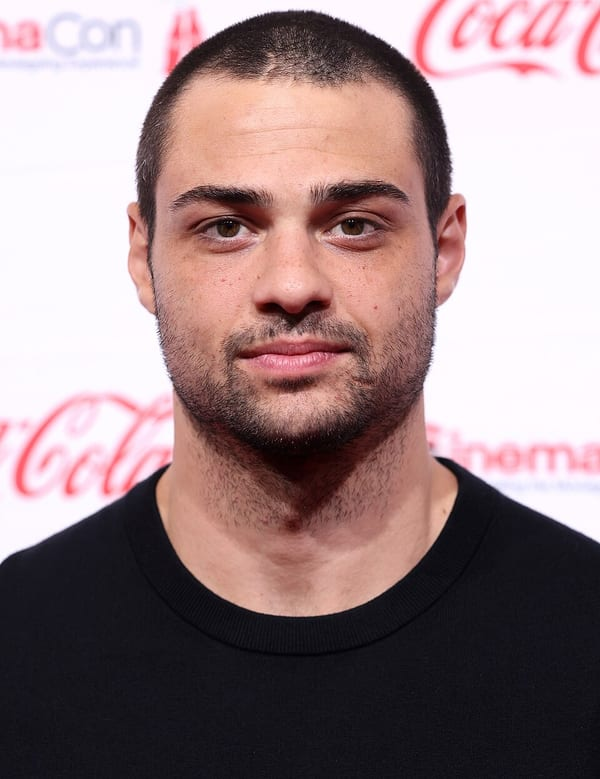
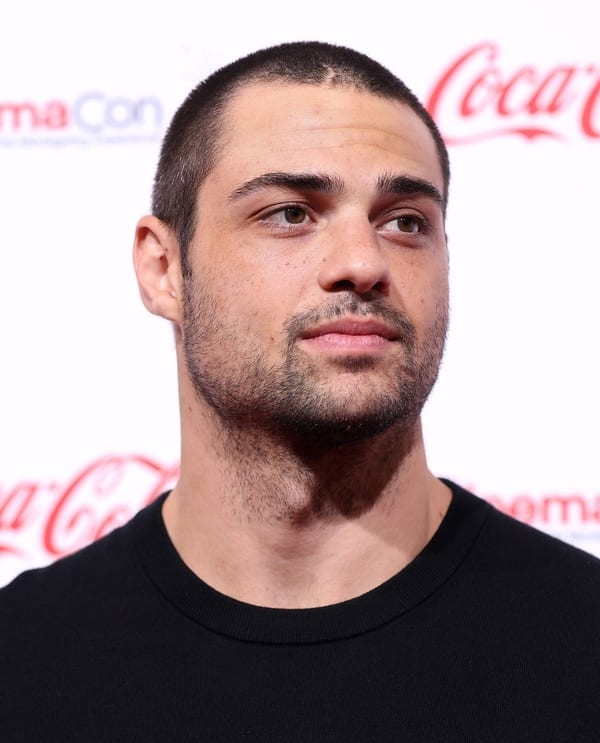
Add Chace Crawford (2012), new Noah Centineo photo, Foden above KSI and KSI below Speed
Claude-Session: https://claude.ai/code/session_015PiKjigLATJRMSLTpSs1fv

diff --git a/scripts/contact-sheet.html b/scripts/contact-sheet.html
@@ -23,7 +23,7 @@
   figcaption { font-size:11px; color:var(--muted); }
   #toast { position:fixed; bottom:16px; left:50%; transform:translateX(-50%); background:var(--fg); color:var(--bg); padding:8px 12px; border-radius:6px; opacity:0; transition:opacity .2s; }
 </style></head><body>
-<header><h1>Contact sheet</h1><span>271/276 with images</span>
+<header><h1>Contact sheet</h1><span>272/277 with images</span>
 <input id="q" placeholder="Filter by name"><label><input type="checkbox" id="bad"> Missing only</label></header>
 <p style="margin-bottom:8px">Check that each photo looks like its rating (the number next to the name). Set an era with <code>"Name": { "years": [2005, 2014] }</code> to steer the pick.</p>
 <p style="margin-bottom:16px">"Use this" / "Reject current" copies a line for <code>data/image-overrides.json</code>. Then run <code>npm run images -- --only "Name"</code>.</p>
@@ -352,6 +352,13 @@
   <figcaption>2025 · 12.9</figcaption>
   <button data-copy='&quot;Bradley Cooper&quot;:&quot;File:Bradley Cooper.jpg&quot;'>Use this</button>
 </figure></div>
+</section>
+<section class="card" data-name="chace crawford">
+  <a href="https://commons.wikimedia.org/wiki/File:Chace_Crawford_2012_Shankbone_4.JPG" target="_blank"><img class="main" src="../public/celebs/chace-crawford.jpg" loading="lazy"></a>
+  <h2>Chace Crawford <span>8.6 · actor</span></h2>
+  <p>2012 · CC BY 3.0 · David Shankbone</p><p class="t">File:Chace Crawford 2012 Shankbone 4.JPG</p>
+  <button data-copy='&quot;Chace Crawford&quot;:{&quot;reject&quot;:[&quot;File:Chace Crawford 2012 Shankbone 4.JPG&quot;]}'>Reject current</button>
+  
 </section>
 <section class="card" data-name="idris elba">
   <a href="https://commons.wikimedia.org/wiki/File:Idris_Elba-4580_(cropped).jpg" target="_blank"><img class="main" src="../public/celebs/idris-elba.jpg" loading="lazy"></a>
@@ -875,31 +882,11 @@
 </figure></div>
 </section>
 <section class="card" data-name="noah centineo">
-  <a href="https://commons.wikimedia.org/wiki/File:Noah_Centineo_by_Gage_Skidmore_(cropped).jpg" target="_blank"><img class="main" src="../public/celebs/noah-centineo.jpg" loading="lazy"></a>
+  <a href="https://commons.wikimedia.org/wiki/File:Noah_Centineo_(55230816636).jpg" target="_blank"><img class="main" src="../public/celebs/noah-centineo.jpg" loading="lazy"></a>
   <h2>Noah Centineo <span>7.8 · actor</span></h2>
-  <p>2026 · CC BY-SA 3.0 · Gage Skidmore</p><p class="t">File:Noah Centineo by Gage Skidmore (cropped).jpg</p>
-  <button data-copy='&quot;Noah Centineo&quot;:{&quot;reject&quot;:[&quot;File:Noah Centineo by Gage Skidmore (cropped).jpg&quot;]}'>Reject current</button>
-  <div class="alts"><figure>
-  <a href="https://commons.wikimedia.org/wiki/File%3AActor_Noah_Centineo_Visits_Naval_Station_Norfolk_(5)_(cropped).jpg" target="_blank"><img src="https://thumb.wikimedia.org/wikipedia/commons/thumb/7/77/Actor_Noah_Centineo_Visits_Naval_Station_Norfolk_%285%29_%28cropped%29.jpg/960px-Actor_Noah_Centineo_Visits_Naval_Station_Norfolk_%285%29_%28cropped%29.jpg?utm_source=commons.wikimedia.org&amp;utm_campaign=imageinfo&amp;utm_content=thumbnail" loading="lazy" title="File:Actor Noah Centineo Visits Naval Station Norfolk (5) (cropped).jpg"></a>
-  <figcaption>2025 · 13.5</figcaption>
-  <button data-copy='&quot;Noah Centineo&quot;:&quot;File:Actor Noah Centineo Visits Naval Station Norfolk (5) (cropped).jpg&quot;'>Use this</button>
-</figure><figure>
-  <a href="https://commons.wikimedia.org/wiki/File%3ANoah_Centineo_by_Gage_Skidmore.jpg" target="_blank"><img src="https://thumb.wikimedia.org/wikipedia/commons/thumb/6/61/Noah_Centineo_by_Gage_Skidmore.jpg/960px-Noah_Centineo_by_Gage_Skidmore.jpg?utm_source=commons.wikimedia.org&amp;utm_campaign=imageinfo&amp;utm_content=thumbnail" loading="lazy" title="File:Noah Centineo by Gage Skidmore.jpg"></a>
-  <figcaption>2026 · 9</figcaption>
-  <button data-copy='&quot;Noah Centineo&quot;:&quot;File:Noah Centineo by Gage Skidmore.jpg&quot;'>Use this</button>
-</figure><figure>
-  <a href="https://commons.wikimedia.org/wiki/File%3ANoah_Centineo_(55229906217).jpg" target="_blank"><img src="https://thumb.wikimedia.org/wikipedia/commons/thumb/4/43/Noah_Centineo_%2855229906217%29.jpg/960px-Noah_Centineo_%2855229906217%29.jpg?utm_source=commons.wikimedia.org&amp;utm_campaign=imageinfo&amp;utm_content=thumbnail" loading="lazy" title="File:Noah Centineo (55229906217).jpg"></a>
-  <figcaption>2026 · 9</figcaption>
-  <button data-copy='&quot;Noah Centineo&quot;:&quot;File:Noah Centineo (55229906217).jpg&quot;'>Use this</button>
-</figure><figure>
-  <a href="https://commons.wikimedia.org/wiki/File%3ANoah_Centineo_(55230970623).jpg" target="_blank"><img src="https://thumb.wikimedia.org/wikipedia/commons/thumb/c/c8/Noah_Centineo_%2855230970623%29.jpg/960px-Noah_Centineo_%2855230970623%29.jpg?utm_source=commons.wikimedia.org&amp;utm_campaign=imageinfo&amp;utm_content=thumbnail" loading="lazy" title="File:Noah Centineo (55230970623).jpg"></a>
-  <figcaption>2026 · 9</figcaption>
-  <button data-copy='&quot;Noah Centineo&quot;:&quot;File:Noah Centineo (55230970623).jpg&quot;'>Use this</button>
-</figure><figure>
-  <a href="https://commons.wikimedia.org/wiki/File%3ANoah_Centineo_(55229906192).jpg" target="_blank"><img src="https://thumb.wikimedia.org/wikipedia/commons/thumb/8/87/Noah_Centineo_%2855229906192%29.jpg/960px-Noah_Centineo_%2855229906192%29.jpg?utm_source=commons.wikimedia.org&amp;utm_campaign=imageinfo&amp;utm_content=thumbnail" loading="lazy" title="File:Noah Centineo (55229906192).jpg"></a>
-  <figcaption>2026 · 9</figcaption>
-  <button data-copy='&quot;Noah Centineo&quot;:&quot;File:Noah Centineo (55229906192).jpg&quot;'>Use this</button>
-</figure></div>
+  <p>2026 · CC BY-SA 4.0 · Gage Skidmore from Surprise, AZ, United States of America</p><p class="t">File:Noah Centineo (55230816636).jpg</p>
+  <button data-copy='&quot;Noah Centineo&quot;:{&quot;reject&quot;:[&quot;File:Noah Centineo (55230816636).jpg&quot;]}'>Reject current</button>
+  
 </section>
 <section class="card" data-name="paul mescal">
   <a href="https://commons.wikimedia.org/wiki/File:Paul_Mescal_at_the_Toronto_International_Film_Festival_in_2025_2_(cropped_2).jpg" target="_blank"><img class="main" src="../public/celebs/paul-mescal.jpg" loading="lazy"></a>
@@ -3791,6 +3778,33 @@
   <button data-copy='&quot;Pete Davidson&quot;:&quot;File:Joey Gay - Netflix.png&quot;'>Use this</button>
 </figure></div>
 </section>
+<section class="card" data-name="phil foden">
+  <a href="https://commons.wikimedia.org/wiki/File:2023-10-04_Fu%C3%9Fball,_M%C3%A4nner,_UEFA_Champions_League,_RB_Leipzig_-_Manchester_City_FC_1DX_2613,_Phil_Foden.jpg" target="_blank"><img class="main" src="../public/celebs/phil-foden.jpg" loading="lazy"></a>
+  <h2>Phil Foden <span>5.9 · athlete</span></h2>
+  <p>2023 · CC BY-SA 4.0 · Steffen Prößdorf</p><p class="t">File:2023-10-04 Fußball, Männer, UEFA Champions League, RB Leipzig - Manchester City FC 1DX 2613, Phil Foden.jpg</p>
+  <button data-copy='&quot;Phil Foden&quot;:{&quot;reject&quot;:[&quot;File:2023-10-04 Fußball, Männer, UEFA Champions League, RB Leipzig - Manchester City FC 1DX 2613, Phil Foden.jpg&quot;]}'>Reject current</button>
+  <div class="alts"><figure>
+  <a href="https://commons.wikimedia.org/wiki/File%3A2023-10-04_Fu%C3%9Fball%2C_M%C3%A4nner%2C_UEFA_Champions_League%2C_RB_Leipzig_-_Manchester_City_FC_1DX_2724_(cropped).jpg" target="_blank"><img src="https://thumb.wikimedia.org/wikipedia/commons/thumb/3/38/2023-10-04_Fu%C3%9Fball%2C_M%C3%A4nner%2C_UEFA_Champions_League%2C_RB_Leipzig_-_Manchester_City_FC_1DX_2724_%28cropped%29.jpg/960px-2023-10-04_Fu%C3%9Fball%2C_M%C3%A4nner%2C_UEFA_Champions_League%2C_RB_Leipzig_-_Manchester_City_FC_1DX_2724_%28cropped%29.jpg?utm_source=commons.wikimedia.org&amp;utm_campaign=imageinfo&amp;utm_content=thumbnail" loading="lazy" title="File:2023-10-04 Fußball, Männer, UEFA Champions League, RB Leipzig - Manchester City FC 1DX 2724 (cropped).jpg"></a>
+  <figcaption>2023 · 10.5</figcaption>
+  <button data-copy='&quot;Phil Foden&quot;:&quot;File:2023-10-04 Fußball, Männer, UEFA Champions League, RB Leipzig - Manchester City FC 1DX 2724 (cropped).jpg&quot;'>Use this</button>
+</figure><figure>
+  <a href="https://commons.wikimedia.org/wiki/File%3AFoden_tattoo.jpg" target="_blank"><img src="https://thumb.wikimedia.org/wikipedia/commons/thumb/4/42/Foden_tattoo.jpg/960px-Foden_tattoo.jpg?utm_source=commons.wikimedia.org&amp;utm_campaign=imageinfo&amp;utm_content=thumbnail" loading="lazy" title="File:Foden tattoo.jpg"></a>
+  <figcaption>2024 · 8</figcaption>
+  <button data-copy='&quot;Phil Foden&quot;:&quot;File:Foden tattoo.jpg&quot;'>Use this</button>
+</figure><figure>
+  <a href="https://commons.wikimedia.org/wiki/File%3APhil_Foden_(36502388741).jpg" target="_blank"><img src="https://thumb.wikimedia.org/wikipedia/commons/thumb/4/43/Phil_Foden_%2836502388741%29.jpg/960px-Phil_Foden_%2836502388741%29.jpg?utm_source=commons.wikimedia.org&amp;utm_campaign=imageinfo&amp;utm_content=thumbnail" loading="lazy" title="File:Phil Foden (36502388741).jpg"></a>
+  <figcaption>2017 · 7</figcaption>
+  <button data-copy='&quot;Phil Foden&quot;:&quot;File:Phil Foden (36502388741).jpg&quot;'>Use this</button>
+</figure><figure>
+  <a href="https://commons.wikimedia.org/wiki/File%3APhil_Foden_2022.jpeg" target="_blank"><img src="https://upload.wikimedia.org/wikipedia/commons/e/e7/Phil_Foden_2022.jpeg?utm_source=commons.wikimedia.org&amp;utm_campaign=imageinfo&amp;utm_content=original" loading="lazy" title="File:Phil Foden 2022.jpeg"></a>
+  <figcaption>2022 · 6.8</figcaption>
+  <button data-copy='&quot;Phil Foden&quot;:&quot;File:Phil Foden 2022.jpeg&quot;'>Use this</button>
+</figure><figure>
+  <a href="https://commons.wikimedia.org/wiki/File%3AParis_Saint-Germain_-_Manchester_City_FC%2C_22_January_2025_(201).jpg" target="_blank"><img src="https://thumb.wikimedia.org/wikipedia/commons/thumb/9/90/Paris_Saint-Germain_-_Manchester_City_FC%2C_22_January_2025_%28201%29.jpg/960px-Paris_Saint-Germain_-_Manchester_City_FC%2C_22_January_2025_%28201%29.jpg?utm_source=commons.wikimedia.org&amp;utm_campaign=imageinfo&amp;utm_content=thumbnail" loading="lazy" title="File:Paris Saint-Germain - Manchester City FC, 22 January 2025 (201).jpg"></a>
+  <figcaption>2025 · 6</figcaption>
+  <button data-copy='&quot;Phil Foden&quot;:&quot;File:Paris Saint-Germain - Manchester City FC, 22 January 2025 (201).jpg&quot;'>Use this</button>
+</figure></div>
+</section>
 <section class="card" data-name="tyler, the creator">
   <a href="https://commons.wikimedia.org/wiki/File:Tyler_the_Creator_2022_cropped_(cropped).png" target="_blank"><img class="main" src="../public/celebs/tyler-the-creator.jpg" loading="lazy"></a>
   <h2>Tyler, the Creator <span>5.9 · musician</span></h2>
@@ -4046,33 +4060,6 @@
   <a href="https://commons.wikimedia.org/wiki/File%3AHudson_Theatre_(52302264678).jpg" target="_blank"><img src="https://thumb.wikimedia.org/wikipedia/commons/thumb/5/5b/Hudson_Theatre_%2852302264678%29.jpg/960px-Hudson_Theatre_%2852302264678%29.jpg?utm_source=commons.wikimedia.org&amp;utm_campaign=imageinfo&amp;utm_content=thumbnail" loading="lazy" title="File:Hudson Theatre (52302264678).jpg"></a>
   <figcaption>2022 · 6</figcaption>
   <button data-copy='&quot;John Mulaney&quot;:&quot;File:Hudson Theatre (52302264678).jpg&quot;'>Use this</button>
-</figure></div>
-</section>
-<section class="card" data-name="ksi">
-  <a href="https://commons.wikimedia.org/wiki/File:KSI_in_2024_(2).png" target="_blank"><img class="main" src="../public/celebs/ksi.jpg" loading="lazy"></a>
-  <h2>KSI <span>5.6 · creator</span></h2>
-  <p>2024 · CC BY 3.0 · MILLION DOLLAZ WORTH OF GAME</p><p class="t">File:KSI in 2024 (2).png</p>
-  <button data-copy='&quot;KSI&quot;:{&quot;reject&quot;:[&quot;File:KSI in 2024 (2).png&quot;]}'>Reject current</button>
-  <div class="alts"><figure>
-  <a href="https://commons.wikimedia.org/wiki/File%3AKSI_in_2024_(cropped).jpg" target="_blank"><img src="https://upload.wikimedia.org/wikipedia/commons/6/68/KSI_in_2024_%28cropped%29.jpg?utm_source=commons.wikimedia.org&amp;utm_campaign=imageinfo&amp;utm_content=original" loading="lazy" title="File:KSI in 2024 (cropped).jpg"></a>
-  <figcaption>2024 · 13.2</figcaption>
-  <button data-copy='&quot;KSI&quot;:&quot;File:KSI in 2024 (cropped).jpg&quot;'>Use this</button>
-</figure><figure>
-  <a href="https://commons.wikimedia.org/wiki/File%3AKSI2019.jpg" target="_blank"><img src="https://upload.wikimedia.org/wikipedia/commons/6/67/KSI2019.jpg?utm_source=commons.wikimedia.org&amp;utm_campaign=imageinfo&amp;utm_content=original" loading="lazy" title="File:KSI2019.jpg"></a>
-  <figcaption>2019 · 8.6</figcaption>
-  <button data-copy='&quot;KSI&quot;:&quot;File:KSI2019.jpg&quot;'>Use this</button>
-</figure><figure>
-  <a href="https://commons.wikimedia.org/wiki/File%3AKSI_in_2024.png" target="_blank"><img src="https://upload.wikimedia.org/wikipedia/commons/8/8b/KSI_in_2024.png?utm_source=commons.wikimedia.org&amp;utm_campaign=imageinfo&amp;utm_content=original" loading="lazy" title="File:KSI in 2024.png"></a>
-  <figcaption>2024 · 8.4</figcaption>
-  <button data-copy='&quot;KSI&quot;:&quot;File:KSI in 2024.png&quot;'>Use this</button>
-</figure><figure>
-  <a href="https://commons.wikimedia.org/wiki/File%3AJJ_Olatunji_(KSI)_5.jpg" target="_blank"><img src="https://upload.wikimedia.org/wikipedia/commons/7/7b/JJ_Olatunji_%28KSI%29_5.jpg?utm_source=commons.wikimedia.org&amp;utm_campaign=imageinfo&amp;utm_content=original" loading="lazy" title="File:JJ Olatunji (KSI) 5.jpg"></a>
-  <figcaption>2020 · 8.4</figcaption>
-  <button data-copy='&quot;KSI&quot;:&quot;File:JJ Olatunji (KSI) 5.jpg&quot;'>Use this</button>
-</figure><figure>
-  <a href="https://commons.wikimedia.org/wiki/File%3AJJ_Olatunji_(KSI)_6.jpg" target="_blank"><img src="https://upload.wikimedia.org/wikipedia/commons/9/94/JJ_Olatunji_%28KSI%29_6.jpg?utm_source=commons.wikimedia.org&amp;utm_campaign=imageinfo&amp;utm_content=original" loading="lazy" title="File:JJ Olatunji (KSI) 6.jpg"></a>
-  <figcaption>2020 · 8.4</figcaption>
-  <button data-copy='&quot;KSI&quot;:&quot;File:JJ Olatunji (KSI) 6.jpg&quot;'>Use this</button>
 </figure></div>
 </section>
 <section class="card" data-name="kumail nanjiani">
@@ -4643,33 +4630,6 @@
   <button data-copy='&quot;Peso Pluma&quot;:&quot;File:Peso Pluma w. Escorpión Dorado (2023).png&quot;'>Use this</button>
 </figure></div>
 </section>
-<section class="card" data-name="phil foden">
-  <a href="https://commons.wikimedia.org/wiki/File:2023-10-04_Fu%C3%9Fball,_M%C3%A4nner,_UEFA_Champions_League,_RB_Leipzig_-_Manchester_City_FC_1DX_2613,_Phil_Foden.jpg" target="_blank"><img class="main" src="../public/celebs/phil-foden.jpg" loading="lazy"></a>
-  <h2>Phil Foden <span>5.3 · athlete</span></h2>
-  <p>2023 · CC BY-SA 4.0 · Steffen Prößdorf</p><p class="t">File:2023-10-04 Fußball, Männer, UEFA Champions League, RB Leipzig - Manchester City FC 1DX 2613, Phil Foden.jpg</p>
-  <button data-copy='&quot;Phil Foden&quot;:{&quot;reject&quot;:[&quot;File:2023-10-04 Fußball, Männer, UEFA Champions League, RB Leipzig - Manchester City FC 1DX 2613, Phil Foden.jpg&quot;]}'>Reject current</button>
-  <div class="alts"><figure>
-  <a href="https://commons.wikimedia.org/wiki/File%3A2023-10-04_Fu%C3%9Fball%2C_M%C3%A4nner%2C_UEFA_Champions_League%2C_RB_Leipzig_-_Manchester_City_FC_1DX_2724_(cropped).jpg" target="_blank"><img src="https://thumb.wikimedia.org/wikipedia/commons/thumb/3/38/2023-10-04_Fu%C3%9Fball%2C_M%C3%A4nner%2C_UEFA_Champions_League%2C_RB_Leipzig_-_Manchester_City_FC_1DX_2724_%28cropped%29.jpg/960px-2023-10-04_Fu%C3%9Fball%2C_M%C3%A4nner%2C_UEFA_Champions_League%2C_RB_Leipzig_-_Manchester_City_FC_1DX_2724_%28cropped%29.jpg?utm_source=commons.wikimedia.org&amp;utm_campaign=imageinfo&amp;utm_content=thumbnail" loading="lazy" title="File:2023-10-04 Fußball, Männer, UEFA Champions League, RB Leipzig - Manchester City FC 1DX 2724 (cropped).jpg"></a>
-  <figcaption>2023 · 10.5</figcaption>
-  <button data-copy='&quot;Phil Foden&quot;:&quot;File:2023-10-04 Fußball, Männer, UEFA Champions League, RB Leipzig - Manchester City FC 1DX 2724 (cropped).jpg&quot;'>Use this</button>
-</figure><figure>
-  <a href="https://commons.wikimedia.org/wiki/File%3AFoden_tattoo.jpg" target="_blank"><img src="https://thumb.wikimedia.org/wikipedia/commons/thumb/4/42/Foden_tattoo.jpg/960px-Foden_tattoo.jpg?utm_source=commons.wikimedia.org&amp;utm_campaign=imageinfo&amp;utm_content=thumbnail" loading="lazy" title="File:Foden tattoo.jpg"></a>
-  <figcaption>2024 · 8</figcaption>
-  <button data-copy='&quot;Phil Foden&quot;:&quot;File:Foden tattoo.jpg&quot;'>Use this</button>
-</figure><figure>
-  <a href="https://commons.wikimedia.org/wiki/File%3APhil_Foden_(36502388741).jpg" target="_blank"><img src="https://thumb.wikimedia.org/wikipedia/commons/thumb/4/43/Phil_Foden_%2836502388741%29.jpg/960px-Phil_Foden_%2836502388741%29.jpg?utm_source=commons.wikimedia.org&amp;utm_campaign=imageinfo&amp;utm_content=thumbnail" loading="lazy" title="File:Phil Foden (36502388741).jpg"></a>
-  <figcaption>2017 · 7</figcaption>
-  <button data-copy='&quot;Phil Foden&quot;:&quot;File:Phil Foden (36502388741).jpg&quot;'>Use this</button>
-</figure><figure>
-  <a href="https://commons.wikimedia.org/wiki/File%3APhil_Foden_2022.jpeg" target="_blank"><img src="https://upload.wikimedia.org/wikipedia/commons/e/e7/Phil_Foden_2022.jpeg?utm_source=commons.wikimedia.org&amp;utm_campaign=imageinfo&amp;utm_content=original" loading="lazy" title="File:Phil Foden 2022.jpeg"></a>
-  <figcaption>2022 · 6.8</figcaption>
-  <button data-copy='&quot;Phil Foden&quot;:&quot;File:Phil Foden 2022.jpeg&quot;'>Use this</button>
-</figure><figure>
-  <a href="https://commons.wikimedia.org/wiki/File%3AParis_Saint-Germain_-_Manchester_City_FC%2C_22_January_2025_(201).jpg" target="_blank"><img src="https://thumb.wikimedia.org/wikipedia/commons/thumb/9/90/Paris_Saint-Germain_-_Manchester_City_FC%2C_22_January_2025_%28201%29.jpg/960px-Paris_Saint-Germain_-_Manchester_City_FC%2C_22_January_2025_%28201%29.jpg?utm_source=commons.wikimedia.org&amp;utm_campaign=imageinfo&amp;utm_content=thumbnail" loading="lazy" title="File:Paris Saint-Germain - Manchester City FC, 22 January 2025 (201).jpg"></a>
-  <figcaption>2025 · 6</figcaption>
-  <button data-copy='&quot;Phil Foden&quot;:&quot;File:Paris Saint-Germain - Manchester City FC, 22 January 2025 (201).jpg&quot;'>Use this</button>
-</figure></div>
-</section>
 <section class="card" data-name="rami malek">
   <a href="https://commons.wikimedia.org/wiki/File:Rami_Malek_in_2015_(2)_(cropped).jpg" target="_blank"><img class="main" src="../public/celebs/rami-malek.jpg" loading="lazy"></a>
   <h2>Rami Malek <span>5.3 · actor</span></h2>
@@ -5135,6 +5095,33 @@
   <a href="https://commons.wikimedia.org/wiki/File%3AJonah_Hill_(28798841186).jpg" target="_blank"><img src="https://thumb.wikimedia.org/wikipedia/commons/thumb/4/47/Jonah_Hill_%2828798841186%29.jpg/960px-Jonah_Hill_%2828798841186%29.jpg?utm_source=commons.wikimedia.org&amp;utm_campaign=imageinfo&amp;utm_content=thumbnail" loading="lazy" title="File:Jonah Hill (28798841186).jpg"></a>
   <figcaption>2016 · 9</figcaption>
   <button data-copy='&quot;Jonah Hill&quot;:&quot;File:Jonah Hill (28798841186).jpg&quot;'>Use this</button>
+</figure></div>
+</section>
+<section class="card" data-name="ksi">
+  <a href="https://commons.wikimedia.org/wiki/File:KSI_in_2024_(2).png" target="_blank"><img class="main" src="../public/celebs/ksi.jpg" loading="lazy"></a>
+  <h2>KSI <span>4.7 · creator</span></h2>
+  <p>2024 · CC BY 3.0 · MILLION DOLLAZ WORTH OF GAME</p><p class="t">File:KSI in 2024 (2).png</p>
+  <button data-copy='&quot;KSI&quot;:{&quot;reject&quot;:[&quot;File:KSI in 2024 (2).png&quot;]}'>Reject current</button>
+  <div class="alts"><figure>
+  <a href="https://commons.wikimedia.org/wiki/File%3AKSI_in_2024_(cropped).jpg" target="_blank"><img src="https://upload.wikimedia.org/wikipedia/commons/6/68/KSI_in_2024_%28cropped%29.jpg?utm_source=commons.wikimedia.org&amp;utm_campaign=imageinfo&amp;utm_content=original" loading="lazy" title="File:KSI in 2024 (cropped).jpg"></a>
+  <figcaption>2024 · 13.2</figcaption>
+  <button data-copy='&quot;KSI&quot;:&quot;File:KSI in 2024 (cropped).jpg&quot;'>Use this</button>
+</figure><figure>
+  <a href="https://commons.wikimedia.org/wiki/File%3AKSI2019.jpg" target="_blank"><img src="https://upload.wikimedia.org/wikipedia/commons/6/67/KSI2019.jpg?utm_source=commons.wikimedia.org&amp;utm_campaign=imageinfo&amp;utm_content=original" loading="lazy" title="File:KSI2019.jpg"></a>
+  <figcaption>2019 · 8.6</figcaption>
+  <button data-copy='&quot;KSI&quot;:&quot;File:KSI2019.jpg&quot;'>Use this</button>
+</figure><figure>
+  <a href="https://commons.wikimedia.org/wiki/File%3AKSI_in_2024.png" target="_blank"><img src="https://upload.wikimedia.org/wikipedia/commons/8/8b/KSI_in_2024.png?utm_source=commons.wikimedia.org&amp;utm_campaign=imageinfo&amp;utm_content=original" loading="lazy" title="File:KSI in 2024.png"></a>
+  <figcaption>2024 · 8.4</figcaption>
+  <button data-copy='&quot;KSI&quot;:&quot;File:KSI in 2024.png&quot;'>Use this</button>
+</figure><figure>
+  <a href="https://commons.wikimedia.org/wiki/File%3AJJ_Olatunji_(KSI)_5.jpg" target="_blank"><img src="https://upload.wikimedia.org/wikipedia/commons/7/7b/JJ_Olatunji_%28KSI%29_5.jpg?utm_source=commons.wikimedia.org&amp;utm_campaign=imageinfo&amp;utm_content=original" loading="lazy" title="File:JJ Olatunji (KSI) 5.jpg"></a>
+  <figcaption>2020 · 8.4</figcaption>
+  <button data-copy='&quot;KSI&quot;:&quot;File:JJ Olatunji (KSI) 5.jpg&quot;'>Use this</button>
+</figure><figure>
+  <a href="https://commons.wikimedia.org/wiki/File%3AJJ_Olatunji_(KSI)_6.jpg" target="_blank"><img src="https://upload.wikimedia.org/wikipedia/commons/9/94/JJ_Olatunji_%28KSI%29_6.jpg?utm_source=commons.wikimedia.org&amp;utm_campaign=imageinfo&amp;utm_content=original" loading="lazy" title="File:JJ Olatunji (KSI) 6.jpg"></a>
+  <figcaption>2020 · 8.4</figcaption>
+  <button data-copy='&quot;KSI&quot;:&quot;File:JJ Olatunji (KSI) 6.jpg&quot;'>Use this</button>
 </figure></div>
 </section>
 <section class="card" data-name="wayne rooney">

diff --git a/scripts/fetch-report.md b/scripts/fetch-report.md
@@ -1,6 +1,6 @@
 # Image fetch report
 
-271 of 276 celebs have an image. 5 without (left out of data/bank.json).
+272 of 277 celebs have an image. 5 without (left out of data/bank.json).
 
 | Celeb | Reason |
 |---|---|
